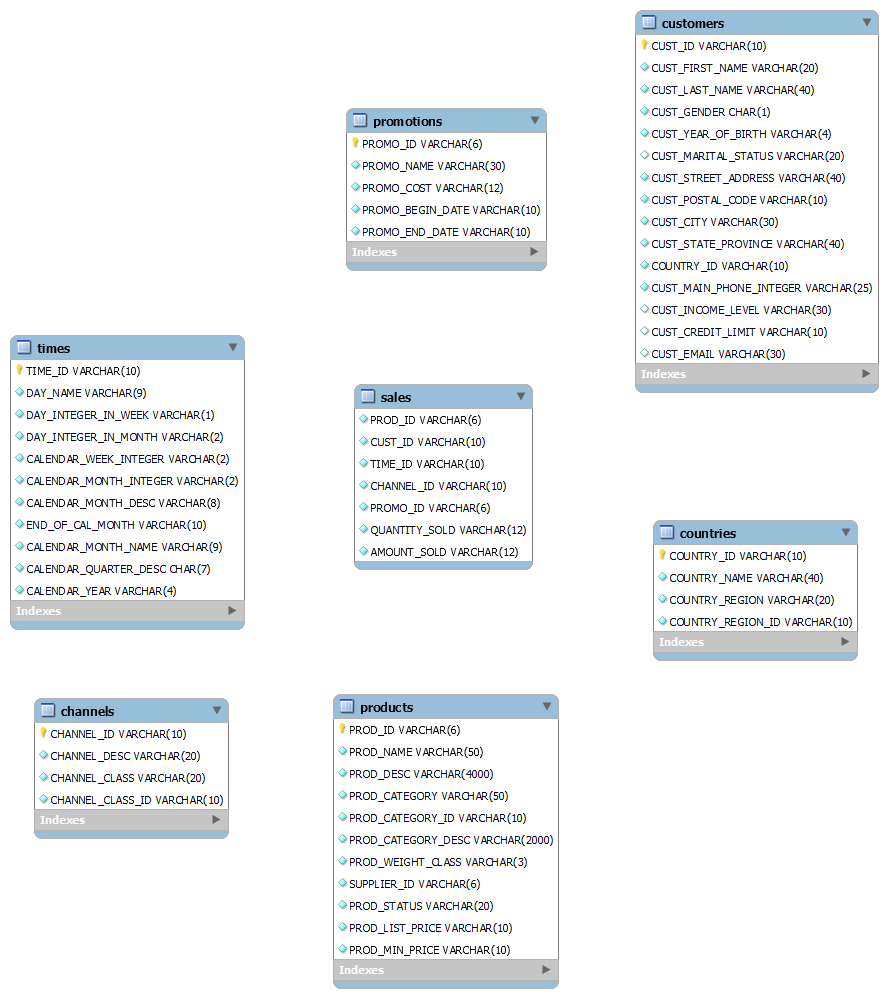
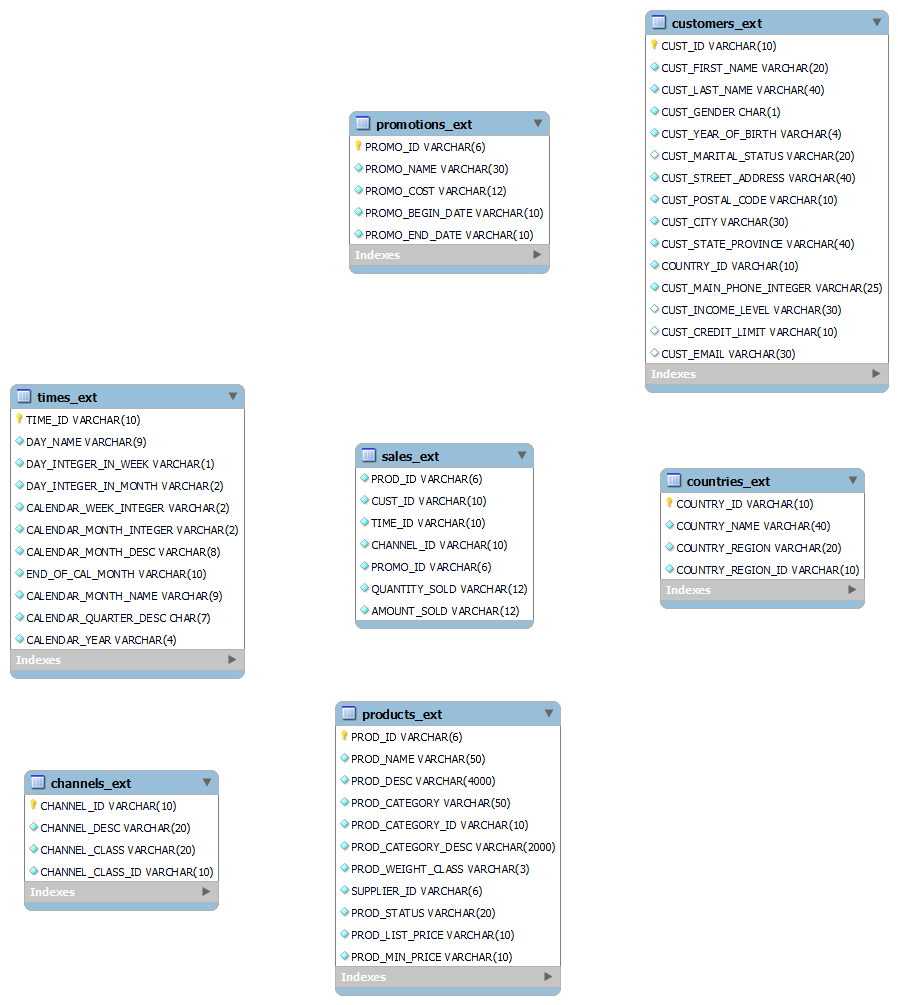
Update extraction tables

diff --git a/extract/ext_promotions.py b/extract/ext_promotions.py
@@ -30,6 +30,6 @@ def extract_promotions(db_con: Engine):
             promotions_dict["promo_begin_date"].append(begin_date)
             promotions_dict["promo_end_date"].append(end_date)
     if promotions_dict["promo_id"]:
-        db_con.connect().execute(f'TRUNCATE TABLE promotions')
+        db_con.connect().execute(f'TRUNCATE TABLE promotions_ext')
         df_promotions = pd.DataFrame(promotions_dict)
-        df_promotions.to_sql('promotions', db_con, if_exists="append",index=False)
+        df_promotions.to_sql('promotions_ext', db_con, if_exists="append",index=False)

diff --git a/extract/ext_customers.py b/extract/ext_customers.py
@@ -64,6 +64,6 @@ def extract_customers(db_con: Engine):
             customers_dict["cust_credit_limit"].append(credit_limit)
             customers_dict["cust_email"].append(email)
     if customers_dict["cust_id"]:
-        db_con.connect().execute(f'TRUNCATE TABLE customers')
+        db_con.connect().execute(f'TRUNCATE TABLE customers_ext')
         df_customers = pd.DataFrame(customers_dict)
-        df_customers.to_sql('customers', db_con, if_exists="append",index=False)
+        df_customers.to_sql('customers_ext', db_con, if_exists="append",index=False)

diff --git a/extract/ext_countries.py b/extract/ext_countries.py
@@ -26,6 +26,6 @@ def extract_countries(db_con: Engine):
             countries_dict["country_region"].append(reg)
             countries_dict["country_region_id"].append(reg_id)
     if countries_dict["country_id"]:
-        db_con.connect().execute(f'TRUNCATE TABLE countries')
+        db_con.connect().execute(f'TRUNCATE TABLE countries_ext')
         df_countries = pd.DataFrame(countries_dict)
-        df_countries.to_sql('countries', db_con, if_exists="append",index=False)
+        df_countries.to_sql('countries_ext', db_con, if_exists="append",index=False)

diff --git a/extract/ext_products.py b/extract/ext_products.py
@@ -50,7 +50,7 @@ def extract_products(db_con: Engine):
             products_dict["prod_list_price"].append(list_price)
             products_dict["prod_min_price"].append(min_price)
     if products_dict["prod_id"]:
-        db_con.connect().execute(f'TRUNCATE TABLE products')
+        db_con.connect().execute(f'TRUNCATE TABLE products_ext')
         df_products = pd.DataFrame(products_dict)
-        df_products.to_sql('products', db_con, if_exists="append",index=False)
+        df_products.to_sql('products_ext', db_con, if_exists="append",index=False)
     

diff --git a/extract/ext_channels.py b/extract/ext_channels.py
@@ -26,6 +26,6 @@ def extract_channels(db_con: Engine):
             channels_dict["channel_class"].append(cls)
             channels_dict["channel_class_id"].append(cls_id)
     if channels_dict["channel_id"]:
-        db_con.connect().execute(f'TRUNCATE TABLE channels')
+        db_con.connect().execute(f'TRUNCATE TABLE channels_ext')
         df_countries = pd.DataFrame(channels_dict)
-        df_countries.to_sql('channels', db_con, if_exists="append",index=False)
+        df_countries.to_sql('channels_ext', db_con, if_exists="append",index=False)

diff --git a/extract/ext_times.py b/extract/ext_times.py
@@ -50,6 +50,6 @@ def extract_times(db_con: Engine):
             times_dict['calendar_quarter_desc'].append(cal_quarter)
             times_dict['calendar_year'].append(cal_year)
     if times_dict["time_id"]:
-        db_con.connect().execute(f'TRUNCATE TABLE times')
+        db_con.connect().execute(f'TRUNCATE TABLE times_ext')
         df_times = pd.DataFrame(times_dict)
-        df_times.to_sql('times', db_con, if_exists="append",index=False)
+        df_times.to_sql('times_ext', db_con, if_exists="append",index=False)

diff --git a/extract/ext_sales.py b/extract/ext_sales.py
@@ -37,6 +37,6 @@ def extract_sales(db_con: Engine):
             sales_dict['quantity_sold'].append(quantity_sold)
             sales_dict['amount_sold'].append(amount_sold)
     if sales_dict["prod_id"]:
-        db_con.connect().execute(f'TRUNCATE TABLE sales')
+        db_con.connect().execute(f'TRUNCATE TABLE sales_ext')
         df_sales = pd.DataFrame(sales_dict)
-        df_sales.to_sql('sales', db_con, if_exists="append",index=False)
+        df_sales.to_sql('sales_ext', db_con, if_exists="append",index=False)
